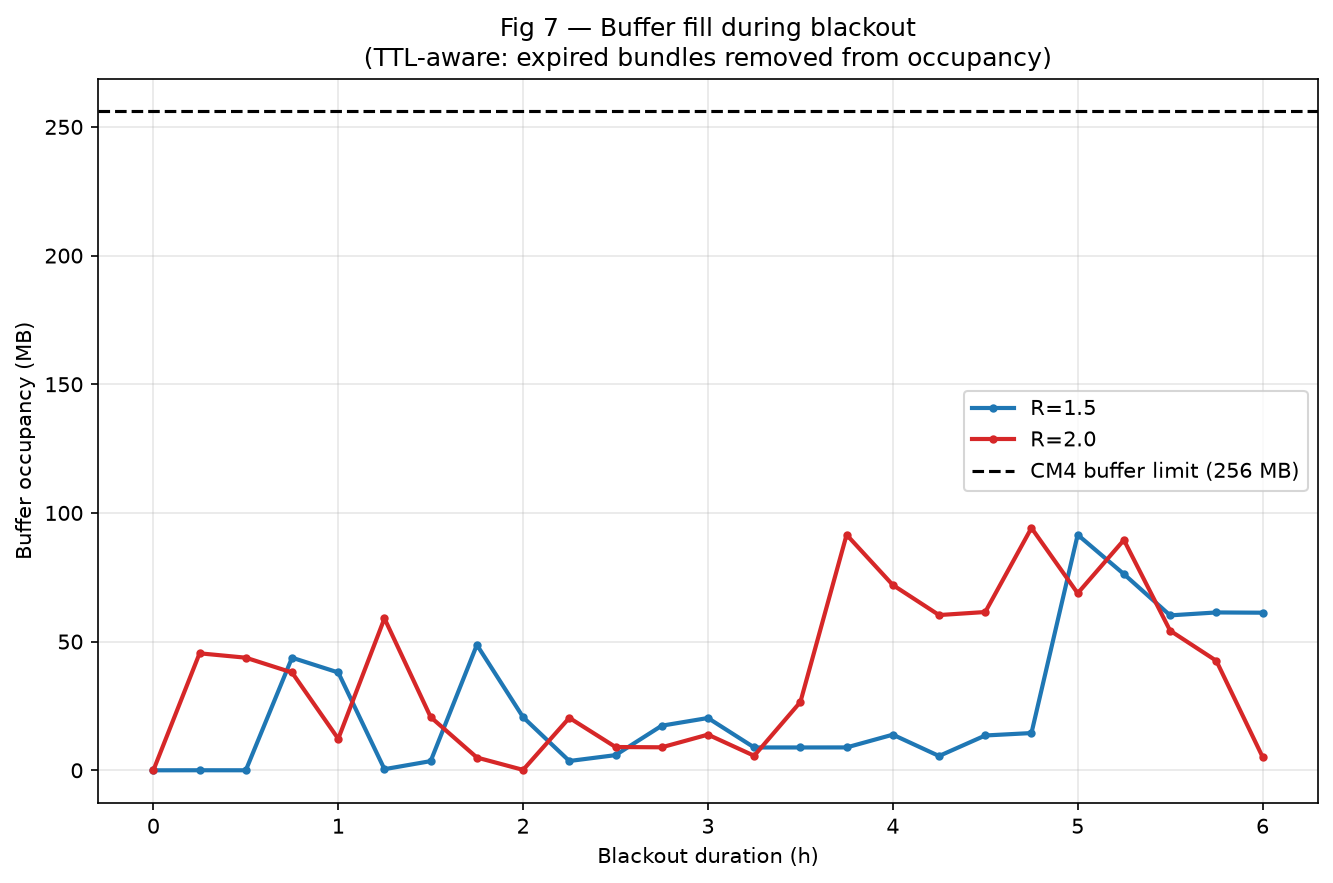
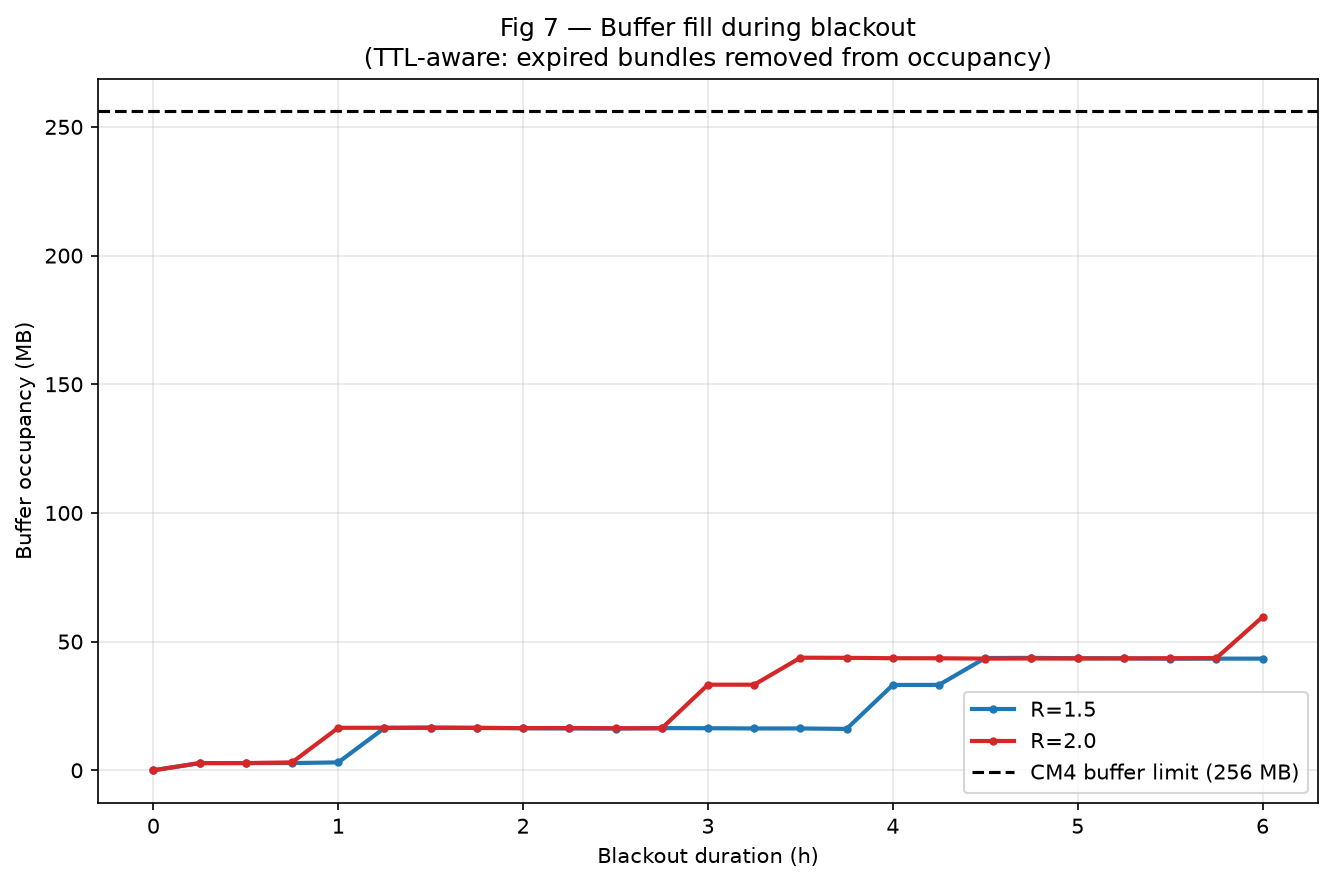
Fix Fig 7: independent per-class RNG streams (was resampling entire system per duration point)

diff --git a/run_fig7.py b/run_fig7.py
@@ -1,36 +1,45 @@
 import json
 import numpy as np
 from gateway.workload_generator import CLASS_PARAMS, _generate_class_arrivals
-from gateway.traffic import CLASS_SPECS
-
-# Buffer occupancy at the END of a blackout of duration D: sum of bytes
-# for every bundle that (a) arrived by time D and (b) has NOT yet expired
-# (expiration_ts > D). No scheduler/window logic needed -- during a
-# blackout nothing drains regardless of policy, so occupancy is purely
-# arrivals-minus-expiry, computed directly from the same locked rates/
-# sizes/TTLs the rest of the project already uses.
+from gateway.traffic import CLASS_SPECS, TrafficClass
 
 R_VALUES = [1.5, 2.0]
-DURATIONS_H = np.arange(0, 6.25, 0.25)  # 0 to 6h, every 15 min
-BUFFER_LIMIT_MB = 256  # CM4-class
+DURATIONS_H = np.arange(0, 6.25, 0.25)
+BUFFER_LIMIT_MB = 256
+MAX_DURATION_S = 6.0 * 3600.0
+
+# Separate seed PER CLASS so one class's arrival count can never shift
+# another's draws -- fixes the earlier bug where a single shared rng,
+# reset per duration point, made every duration an unrelated resample
+# instead of a smooth extension of the same timeline.
+CLASS_SEEDS = {
+    TrafficClass.EMERGENCY: 1001,
+    TrafficClass.TELEMETRY: 1002,
+    TrafficClass.SCIENCE_BULK: 1003,
+    TrafficClass.MEDIA: 1004,
+}
 
 results = {"meta": {"r_values": R_VALUES, "durations_h": DURATIONS_H.tolist(),
                      "buffer_limit_mb": BUFFER_LIMIT_MB}, "occupancy_mb": {}}
 
 for r in R_VALUES:
+    # Generate each class's FULL 6h arrival sequence once, independently.
+    all_events = []
+    for tc, params in CLASS_PARAMS.items():
+        rng = np.random.default_rng(CLASS_SEEDS[tc])
+        scaled = {**params, "rate_per_h": params["rate_per_h"] * r}
+        events = _generate_class_arrivals(rng, tc, scaled, MAX_DURATION_S)
+        ttl = CLASS_SPECS[tc].default_ttl_s
+        all_events.extend((t, size, ttl) for t, _, size in events)
+
     occ_series = []
     for d_h in DURATIONS_H:
         d_s = d_h * 3600.0
-        rng = np.random.default_rng(42)  # same fixed seed as every other figure
-        total_bytes = 0
-        for tc, params in CLASS_PARAMS.items():
-            scaled = {**params, "rate_per_h": params["rate_per_h"] * r}
-            events = _generate_class_arrivals(rng, tc, scaled, d_s)
-            ttl = CLASS_SPECS[tc].default_ttl_s
-            for t, _, size in events:
-                if t + ttl > d_s:  # still alive at the moment blackout ends
-                    total_bytes += size
-        occ_series.append(total_bytes / 1_000_000)  # MB
+        # Same fixed set of arrivals every time -- just filter to what's
+        # arrived by now and not yet expired, per duration checkpoint.
+        total_bytes = sum(size for (t, size, ttl) in all_events
+                           if t <= d_s and t + ttl > d_s)
+        occ_series.append(total_bytes / 1_000_000)
     results["occupancy_mb"][str(r)] = occ_series
     print(f"R={r}: done, max occupancy = {max(occ_series):.1f} MB")
 